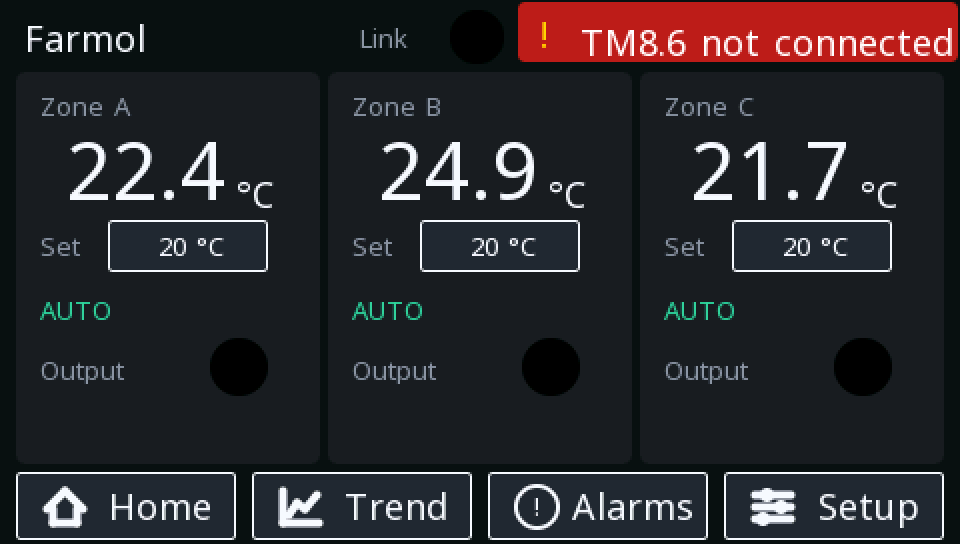
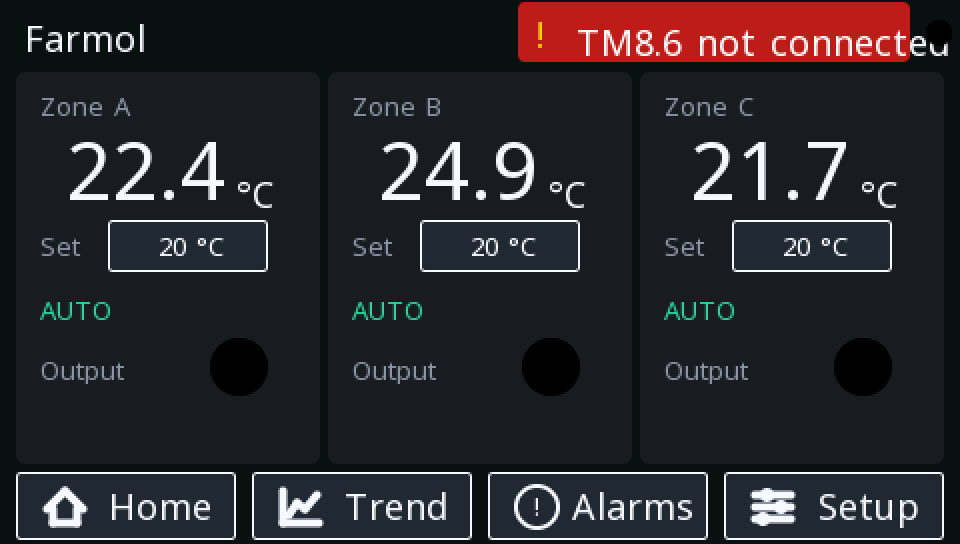
the manual speaks .local
The phone chapter leads with zones.local and farmol.local (mDNS on
both boards), keeps the raw addresses as the fallback and adds the
troubleshooting row for phones that do not resolve mDNS. The Home
and login screenshots follow the panel: the quiet link dot after the
banner strip, and the five-line Phone access card.

Changed region(s): [[0.5625, 0.0, 1.0, 0.125], [0.375, 0.0625, 0.4375, 0.0938]]

diff --git a/docs/three-zone-thermostat.md b/docs/three-zone-thermostat.md
@@ -147,7 +147,7 @@ One card per zone:
 | **Set** field | the setpoint — touch it and a keypad opens; the new value is on the zone board within a poll cycle and persists there |
 | **AUTO** badge / switch | in AUTO the badge; in MANUAL the command switch (below) |
 | **Output** lamp | the REAL state of the SSR output, read back from the zone board — not the wish, the fact |
-| **Link** lamp (title row) | blinks with the zone board's heartbeat; frozen = link down |
+| link dot (top right, after the banner strip) | blinks with the zone board's heartbeat; frozen = link down |
 
 In MANUAL the badge gives way to the command switch:
 
@@ -205,9 +205,9 @@ sanely again.
 
 The Setup button leads here, never straight to the settings — and
 the page doubles as the **connection notice**: the *Phone access*
-card spells out the pair's WiFi name and password and both
-addresses, because the person standing at the panel is exactly the
-one who wants to join with a phone.
+card spells out the pair's WiFi name and password, both `.local`
+names and both raw addresses, because the person standing at the
+panel is exactly the one who wants to join with a phone.
 
 The operator types the access code — the keypad opens on touch —
 and **only the right code makes the way in appear**:
@@ -254,15 +254,20 @@ WiFi **`ctrl32-zones`** (password as delivered: **`zones2026`** —
 both are printed on the panel's access-code page, and both change in
 the project files) and open:
 
-- **192.168.4.1** — the zone board: the three temperatures, the real
-  output states and the alarm table, with a Link lamp blinking with
-  the *panel's* heartbeat. This view works even when the panel is
-  down — which is precisely when it is most useful.
-- **192.168.4.2** — the panel (as the network's first client it
-  takes the first lease; the access-code page prints it, and the
-  [device scanner](find-devices.md) confirms it): the panel's **full
+- **http://zones.local** (= 192.168.4.1) — the zone board: the three
+  temperatures, the real output states and the alarm table, with a
+  Link lamp blinking with the *panel's* heartbeat. This view works
+  even when the panel is down — which is precisely when it is most
+  useful.
+- **http://farmol.local** (= 192.168.4.2 — as the network's first
+  client the panel takes the first lease): the panel's **full
   visualization, laid out for a phone**. This is not a summary of
   the glass; it is the same five pages, described below.
+
+Both boards announce their names over mDNS, so the `.local`
+addresses work with no IP known; the raw addresses stay as the
+fallback for a phone whose browser does not resolve them. All four
+are printed on the panel's access-code page.
 
 The pair's network is its own island. Nothing here reaches the
 internet, and per the product's [network stance](security.md) it
@@ -396,6 +401,7 @@ panel again.
 | Symptom | Look at |
 |:---|:---|
 | Red banner, values frozen | the pair's WiFi: is the zone board powered? Within range? The zone board side has already secured the heaters |
+| A `.local` address does not open | not every phone resolves mDNS — use the raw address from the access-code page |
 | A switch is on but the Output lamp is dark | one of the gates said no — the Alarms page names it (sensor fault, or the link) |
 | Temperatures read plainly wrong on all zones | the probe wiring and the reference-resistor setting belong together — see the project file's peripheral section |
 | A zone cycles wider than expected | the band offsets on Settings — the cycle *is* setpoint − Band− to setpoint + Band+ |
